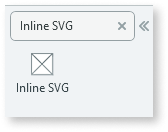
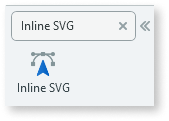
Updates to new Rating and Inline patterns

diff --git a/src/develop/ui/patterns/mobile/numbers/rating.md b/src/develop/ui/patterns/mobile/numbers/rating.md
@@ -1,13 +1,13 @@
 ---
 tags: runtime-mobileandreactiveweb;
-summary: 
+summary: Allows users to rate a particular item.
 ---
 
 # Rating
 
-You can use the Rating UI Pattern to 
+You can use the Rating UI Pattern to allow users to rate a particular item. 
 
-![](<images/rating-1-ss.png>)
+![](<images/rating-4-ss.png>)
 
 **How to use the Rating UI Pattern**
 
@@ -15,17 +15,21 @@ You can use the Rating UI Pattern to
 
     The Rating widget is displayed.
 
-    ![](<images/rating-2-ss.png>)
+    ![](<images/rating-1-ss.png>)
 
 1. From the Toolbox, drag the Rating widget into the Main Content area of your application's screen.
 
+    ![](<images/rating-2-ss.png>)
+
+    By default, the pattern is already prepared to work as a 5-Star rating pattern. However, you can change the icons to hearts, smiles, thumbs, or any other content.
+
+1. On the **Properties** tab, from the **RatingValue** dropdown, enter the rating number you want displayed. In this example, we enter `7`.  
+    
+    ![](<images/rating-5-ss.png>)
+
+1. Additionally, on the **Properties** tab, you can customize the Rating's look and feel by setting any of the optional properties.
+
     ![](<images/rating-3-ss.png>)
-
-    By default, the Rating pattern 
-
-1. On the **Properties** tab, you can customize the Rating's look and feel by setting any of the optional properties.
-
-    ![](<images/rating-8-ss.png>)
 
 After following these steps and publishing the module, you can test the pattern in your app.
 
@@ -33,8 +37,8 @@ After following these steps and publishing the module, you can test the pattern 
 
 | Property | Description |
 |---|---|
-| RatingValue (Decimal): Mandatory | The number that appears inside the badge. Set this to a data source that contains the value you want to display.  |
-| RatingScale (Integer): Optional | Set rating scale to any value. The default is 5 which means the rating is from 0 to 5. |
-| IsEdit (Boolean): Optional | If True,... If False, ... Allows user interaction in runtime or is "read-only".  |
-| Size (Size Identifer): Optional | Allows 3 different sizes, small, medium, and base. Base is the default size.  |
-| ExtendedClass (Text):Optional | Add custom style classes to the Rating UI Pattern. You define your [custom style classes](../../../look-feel/css.md) in your application using CSS. <p>Examples <ul><li>_Blank_ - No custom styles are added (default value).</li><li>_"myclass"_ - Adds the _myclass_ style to the Rating UI styles being applied.</li><li>_"myclass1" "myclass2"_ - Adds the _myclass1_ and _myclass2_ styles to the Rating UI styles being applied.</li></ul></p> |
+| RatingValue (Decimal): Mandatory | Rating number to display. |
+| RatingScale (Integer): Optional | The number of items to display. The default is 5 which means the rating is from 0 to 5. If set to 1, the item behaves as a view only element and the **IsEdit** property is automatically set to False. |
+| IsEdit (Boolean): Optional | If True, the user can interact with the pattern. If False, the user can't interact with the pattern. This is the default. |
+| Size (Size Identifier): Optional | The size of the rating pattern. There are 3 sizes available; small, medium, and base. Base is the default size.  |
+| ExtendedClass (Text): Optional | Add custom style classes to the Rating UI Pattern. You define your [custom style classes](../../../look-feel/css.md) in your application using CSS. <p>Examples <ul><li>_Blank_ - No custom styles are added (default value).</li><li>_"myclass"_ - Adds the _myclass_ style to the Rating UI styles being applied.</li><li>_"myclass1" "myclass2"_ - Adds the _myclass1_ and _myclass2_ styles to the Rating UI styles being applied.</li></ul></p> |

diff --git a/src/develop/ui/patterns/mobile/utilities/inlinesvg.md b/src/develop/ui/patterns/mobile/utilities/inlinesvg.md
@@ -2,14 +2,11 @@
 tags: runtime-mobileandreactiveweb;  
 summary: Inline SVG changes fill and stroke properties or animates the SVG paths.
 
-
 ---
 
 # Inline SVG
 
 You can use the Inline SVG UI Pattern to change fill and stroke properties or animate the SVG paths.
-
-![](<images/inlinesvg-4-ss.png>)
 
 **How to use the Inline SVG UI Pattern**
 
@@ -33,7 +30,11 @@ You can use the Inline SVG UI Pattern to change fill and stroke properties or an
     Sorry, your browser does not support inline SVG.  
     </svg>"``
 
+    ![](<images/inlinesvg-4-ss.png>)
+
 After following these steps and publishing the module, you can test the pattern in your app.
+
+
 
 Using the example above, the results are as follows:
 
@@ -46,10 +47,3 @@ Using the example above, the results are as follows:
 |---|---|
 | SVGCode (Text): Optional | SVG markup code that is appended onto the HTML.|
 | ExtendedClass (Text): Optional  | <p>Add custom style classes to the Inline SVG wrapper. You define your [custom style classes](../../../look-feel/css.md) in your application using CSS.</p> <p>Examples <ul><li>_Blank_ - No custom styles are added (default value).</li><li>_"myclass"_ - Adds the _myclass_ style to the Inline SVG UI styles being applied.</li><li>_"myclass1" "myclass2"_ - Adds the _myclass1_ and _myclass2_ styles to the Inline SVG UI styles being applied.</li></ul></p> |
-
-<!-- ## Hidden Properties
-| Property | Description |
-|---|---|
-| DesignMode | If True, content is displayed horizontally. This is the default. If False, the content is displayed vertically. |
-| CustomName | If True, content is displayed horizontally. This is the default. If False, the content is displayed vertically. |
-| CustomNameIsSuffix | If True, content is displayed horizontally. This is the default. If False, the content is displayed vertically. | -->
